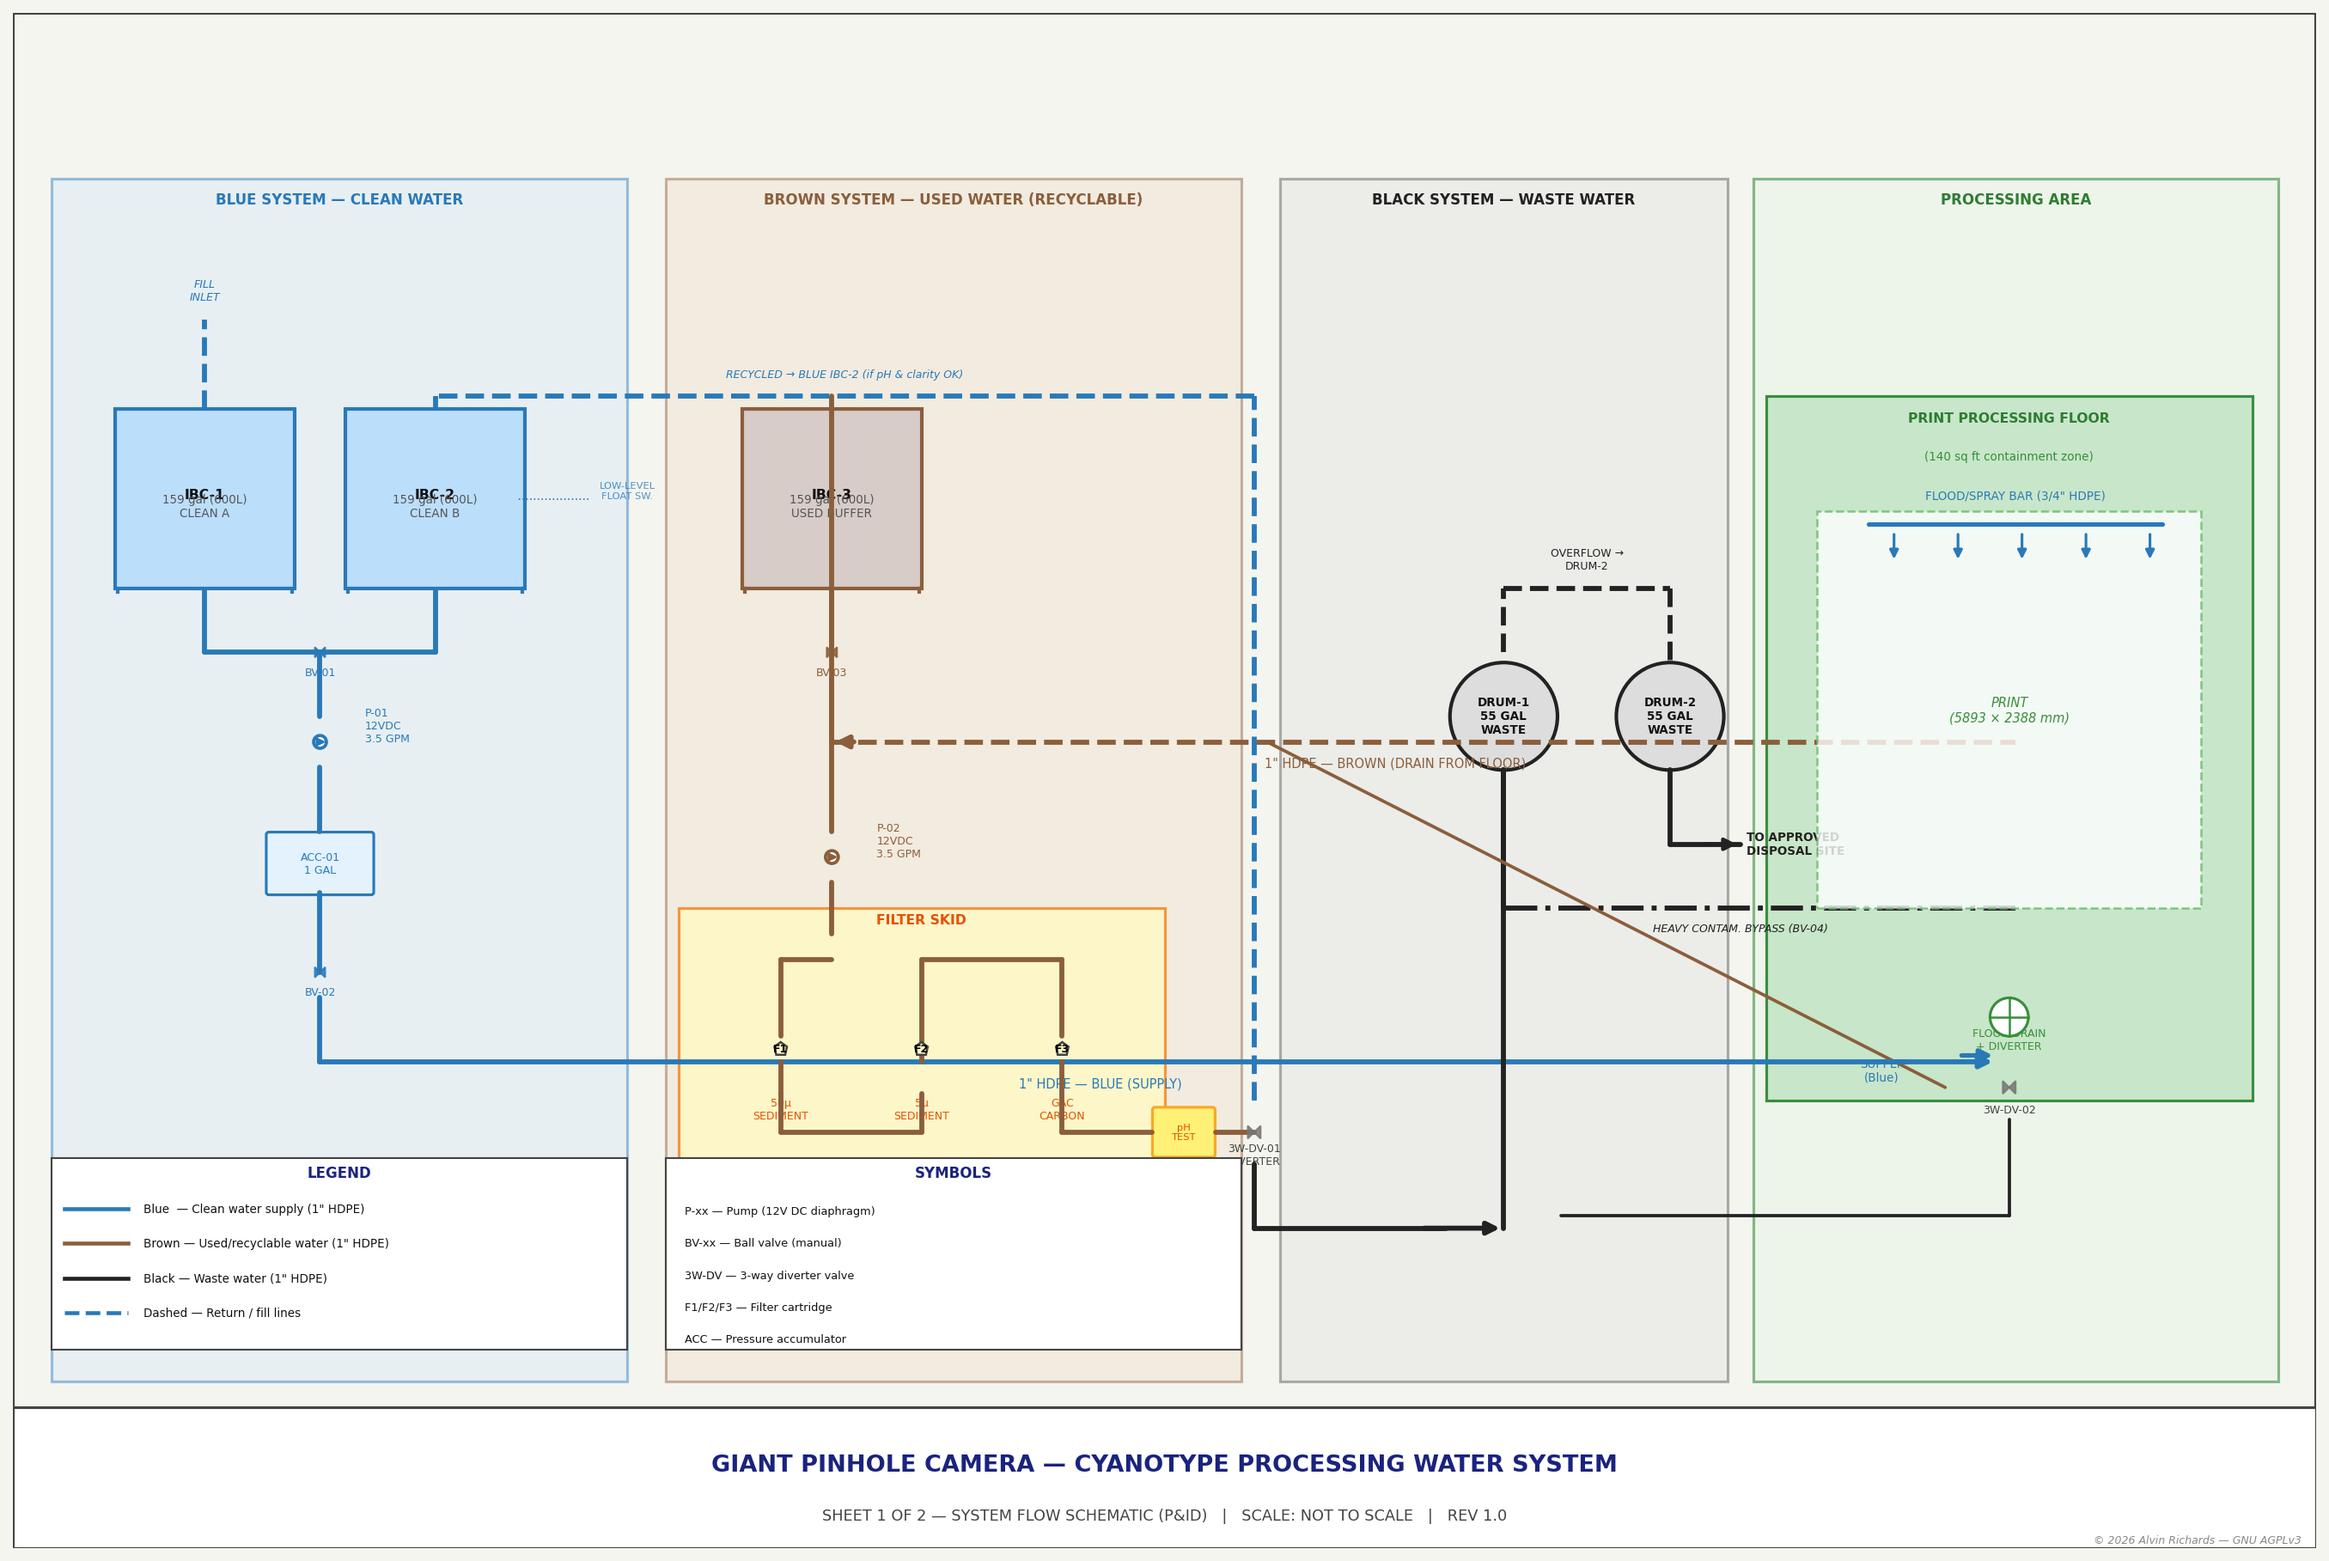
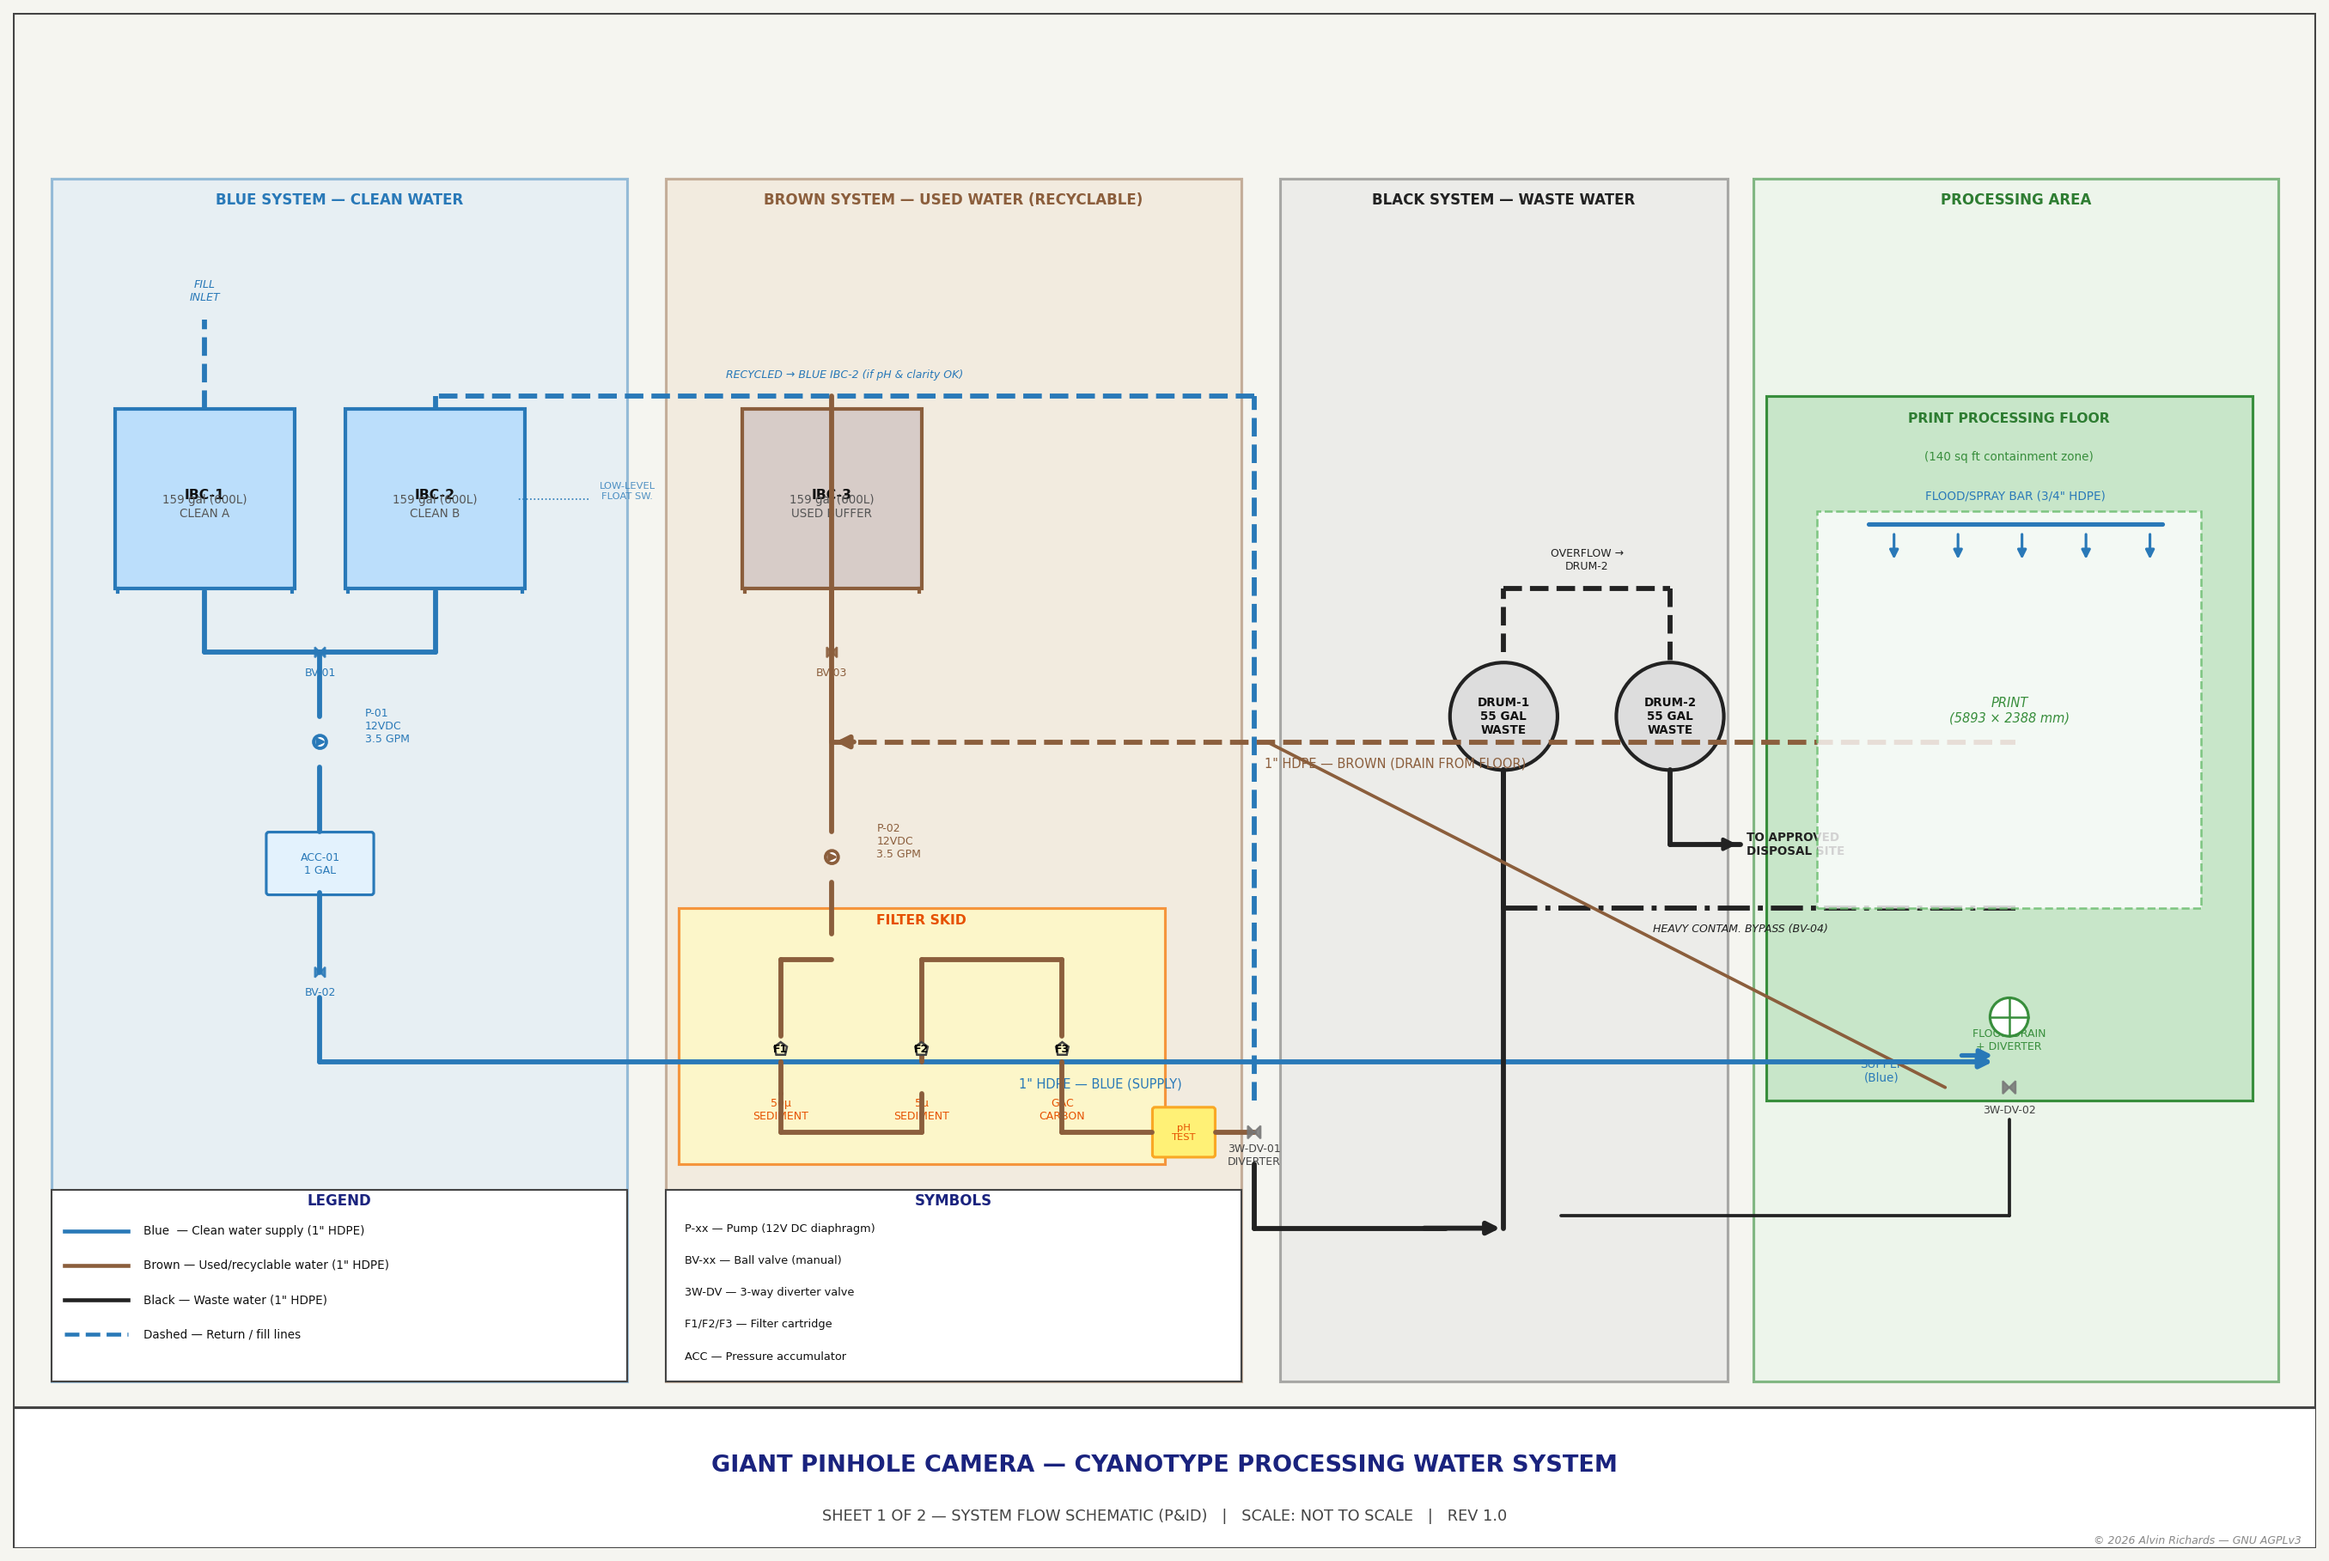
Bottom-align legend and symbols boxes with system zone boxes on water-system-sheet1

Changed region(s): [[0.2789, 0.7397, 0.5577, 0.8938], [0.031, 0.7397, 0.1859, 0.863]]

diff --git a/generate_water_system.py b/generate_water_system.py
@@ -378,15 +378,17 @@ ax1.text(15.65, 8.2, "FLOOD/SPRAY BAR (3/4\" HDPE)",
          ha="center", fontsize=6.5, color=C_BLUE)
 
 # ── Legend ────────────────────────────────────────────────────────────────────
-# Box aligned with Blue System zone (X=0.3, width=4.5)
-lx, ly = 0.4, 2.8
-BOX_W = 4.5    # matches Blue System box width
+# Boxes bottom-aligned with Blue/Brown system zones (system box bottom = Y=1.3)
+BOX_W = 4.5    # matches Blue/Brown System box width
 BOX_H = 1.5
-BOX_X = lx - 0.1   # = 0.3
-BOX_Y = ly - 1.25  # = 1.55
+BOX_X = 0.3    # Blue System left edge
+BOX_Y = 1.3    # bottom of system boxes
+lx = BOX_X + 0.1            # left margin for content
+ly = BOX_Y + BOX_H - 0.20   # top content Y (just inside box top)
+
 ax1.add_patch(plt.Rectangle((BOX_X, BOX_Y), BOX_W, BOX_H,
                              fc="white", ec=C_FRAME, lw=1, zorder=6))
-ax1.text(BOX_X + BOX_W / 2, ly + 0.1, "LEGEND", ha="center", fontsize=8,
+ax1.text(BOX_X + BOX_W / 2, ly + 0.08, "LEGEND", ha="center", fontsize=8,
          fontweight="bold", color=C_TITLE, zorder=7)
 legend_items = [
     (C_BLUE,  "-",  "Blue  — Clean water supply (1\" HDPE)"),
@@ -395,16 +397,16 @@ legend_items = [
     (C_BLUE,  "--", "Dashed — Return / fill lines"),
 ]
 for i, (col, ls, lbl) in enumerate(legend_items):
-    yy = ly - 0.15 - i * 0.27
+    yy = ly - 0.12 - i * 0.27
     ax1.plot([lx, lx + 0.5], [yy, yy], color=col, lw=2.2, ls=ls, zorder=7)
     ax1.text(lx + 0.62, yy, lbl, va="center", fontsize=6.5, color=C_TEXT, zorder=7)
 
 # ── Symbols box — same styling as legend, aligned with Brown System zone ──────
-# Brown System zone: X=5.1, width=4.5 → right edge = 9.6
+# Brown System zone: X=5.1, width=4.5 → bottom also at Y=1.3
 SYM_X = 5.1   # Brown System left edge
 ax1.add_patch(plt.Rectangle((SYM_X, BOX_Y), BOX_W, BOX_H,
                              fc="white", ec=C_FRAME, lw=1, zorder=6))
-ax1.text(SYM_X + BOX_W / 2, ly + 0.1, "SYMBOLS", ha="center", fontsize=8,
+ax1.text(SYM_X + BOX_W / 2, ly + 0.08, "SYMBOLS", ha="center", fontsize=8,
          fontweight="bold", color=C_TITLE, zorder=7)
 syms = [
     ("P-xx",      "Pump (12V DC diaphragm)"),
@@ -414,7 +416,7 @@ syms = [
     ("ACC",       "Pressure accumulator"),
 ]
 for i, (sym, desc) in enumerate(syms):
-    ax1.text(SYM_X + 0.15, ly - 0.17 - i * 0.25,
+    ax1.text(SYM_X + 0.15, ly - 0.10 - i * 0.25,
              f"{sym} — {desc}", va="center", fontsize=6.2, color=C_TEXT, zorder=7)
 
 plt.tight_layout(pad=0.3)
